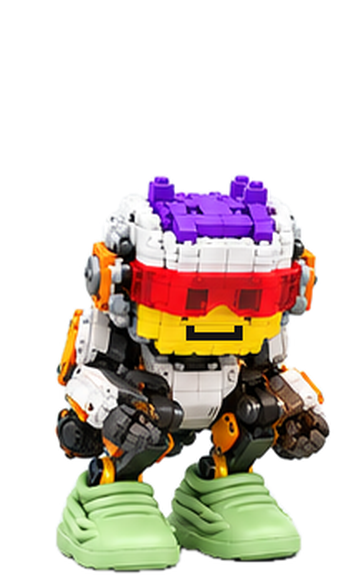
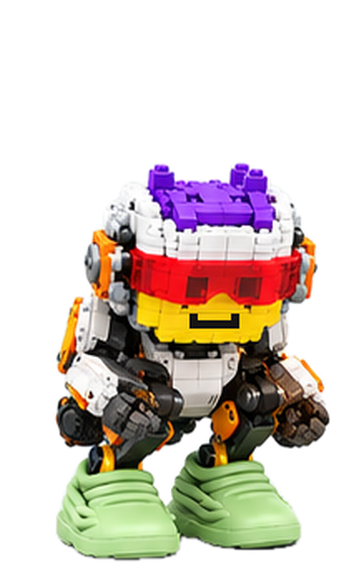
Зеркало: мост 2.7.5 (одобрено Александром) — Плюс на 8 % шире, лицо короче, улыбка уже и по центру, знак «++3» фиолетовый с контуром, музыка под розой ветров; CLAUDE.md — сборка только после «одобряю»
Claude-Session: https://claude.ai/code/session_01FAzfVjY4X3C1HBiDn6VvrF

diff --git a/quest-bridge/app/src/main/kotlin/com/questclaude/bridge/Vizor.kt b/quest-bridge/app/src/main/kotlin/com/questclaude/bridge/Vizor.kt
@@ -11,9 +11,9 @@ import java.util.Locale
  *
  * Кадр: золотые скобы по углам (всегда, пока стиль viz) и тонкая золотая линия сверху; левый верх — карточка
  * топ-донатора и цели доната (полоса визор → золото), справа от неё — табло соведущего; правый верх — налёт
- * пилюлей и Плюс (бюст, под ним плашка «PLUS co-host»); правый столбец — чат (имена фиолетом, метка площадки),
- * «сейчас играет», окно камеры в золотых скобах; низ по центру — субтитры пилюлей (кто говорит — золотом сверху);
- * левый низ — роза ветров. Центр кадра — 70 % ширины × 60 % высоты — свободен всегда.
+ * пилюлей и Плюс во весь рост (над ним слева знак «++3»); правый столбец — чат (имена фиолетом, метка площадки),
+ * окно камеры в золотых скобах; низ по центру — субтитры пилюлей (кто говорит — золотом сверху);
+ * левый низ — роза ветров, под ней «сейчас играет». Центр кадра — 70 % ширины × 60 % высоты — свободен всегда.
  */
 object Vizor {
     // ---------- палитра ----------
@@ -143,11 +143,11 @@ object Vizor {
     val LICO_X = PRAVO - 4f - (319f - PLECHI_VBOK) * K
     val LICO_Y = PV.t
     /**
-     * Плюс во весь рост (plus-telo.png 360×576: голова — картинка лица 256 с x = 52, ниже тело в тапочках): на 8 %
+     * Плюс во весь рост (plus-telo.png 360×563: голова — картинка лица 256 с x = 52, ниже тело в тапочках): на 8 %
      * шире картинки (TELO_SHIRE, Александр 24.10), почти во всю ширину правого столбца; стоит справа вверху над чатом.
      */
     const val TELO_W = 360f
-    const val TELO_H = 576f
+    const val TELO_H = 563f
     const val TELO_GOLOVA_X = 52f
     const val TELO_SHIRE = 1.08f
     /** Масштаб фигуры (рост — как в 2.7.2, Александру хватает): с айфоном стоя под ней место на сообщение чата. */
@@ -159,8 +159,8 @@ object Vizor {
     val BYUST = Pryam(STOLB_X - 4f, TELO_Y, PRAVO, TELO_Y + TELO_H * KT + 4f)
     /** Знак «++3» (2.7.4, вместо плашки «PLUS co-host»): над Плюсом слева. */
     val PLASHKA_PLYUSA = Pryam(STOLB_X, PV.t, STOLB_X + 96f, PV.t + 52f)
-    /** Цвет знака «++3» — серый, как на картинке Александра (чуть светлее — на тёмной игре). */
-    const val ZNAK = 0xFF8C929A.toInt()
+    /** Цвет знака «++3» — наш фиолетовый (гребень Плюса), с тонким чёрным контуром (Александр 24.10). */
+    const val ZNAK = FIOLET
     /** Пилюля налёта — слева от головы, в полосе верха (наибольшая ширина). */
     val NALET_PILYULYA = Pryam(PV.l, VERH, BYUST.l - ZAZOR, VERH + 48f)
 
@@ -169,17 +169,18 @@ object Vizor {
     const val CH = 600
     val CHAT_VERH = maxOf(PLASHKA_PLYUSA.b, BYUST.b) + ZAZOR
 
-    // слой "mz" — «сейчас играет»: правый столбец над окном камеры
+    // слой "mz" — «сейчас играет» (2.7.5, Александр 24.10): слева внизу под розой ветров, а не над камерой
     const val MZW = 240
     const val MZH = 52
+    val MUZ = Pryam(64f, NIZ - MZH, 64f + MZW, NIZ)
 
     // слой "nc" — субтитры: низ по центру, не выше нижней границы центра
-    const val TW = 1100
+    const val TW = 1030                 // уже прежних 1100: слева теперь и роза, и музыка под ней
     const val TH = 172
     val TITRY_VERH = NIZ - TH
 
-    // слой "ln" — роза ветров (Roza3D, 150) в левом нижнем углу, внутри скобы
-    val ROZA = Pryam(64f, 870f, 64f + Roza3D.KARTINKA, 870f + Roza3D.KARTINKA)
+    // слой "ln" — роза ветров (Roza3D, 150) в левом нижнем углу, над «сейчас играет»
+    val ROZA = Pryam(64f, MUZ.t - 8f - Roza3D.KARTINKA, 64f + Roza3D.KARTINKA, MUZ.t - 8f)
 
     // слои "vv", "vn" — скобы и линия: полосы во всю ширину сверху и снизу
     const val RAMKA_H = 96
@@ -213,9 +214,9 @@ object Vizor {
             intArrayOf(r - d, n, d, t), intArrayOf(r - t, n, t, d))            // правый низ
     }
 
-    /** Место субтитров по горизонтали: между розой и окном камеры внизу справа ([pravo] — его левый край, 1080p). */
+    /** Место субтитров по горизонтали: между розой с музыкой и окном камеры ([pravo] — его левый край, 1080p). */
     fun titryX(pravo: Float = PRAVO): Float {
-        val levo = ROZA.r + ZAZOR
+        val levo = maxOf(ROZA.r, MUZ.r) + ZAZOR
         val c = (levo + pravo - ZAZOR) / 2f
         return (c - TW / 2f).coerceIn(levo, maxOf(levo, W - TW - SKOBA_OTSTUP))
     }

diff --git a/quest-bridge/app/src/main/kotlin/com/questclaude/bridge/Nalozhenie.kt b/quest-bridge/app/src/main/kotlin/com/questclaude/bridge/Nalozhenie.kt
@@ -606,7 +606,7 @@ class Nalozhenie(
      * Мимика поверх картинки лица в [dst] (точки картинки 256: глаза за очками 92–117 и 148–169 × 129–150, рот —
      * полоса 90–166 × 181–189 со сдвигом ROT): моргание, взгляд вбок, рот в речи, улыбка.
      */
-    private fun mimikaLica(c: Canvas, dst: RectF, sost: String, now: Long) {
+    private fun mimikaLica(c: Canvas, dst: RectF, sost: String, now: Long, uzhe: Boolean = false) {
         val k = dst.width() / 256f
         fun pr(x0: Float, y0: Float, x1: Float, y1: Float, p: Paint) =
             c.drawRect(dst.left + x0 * k, dst.top + y0 * k, dst.left + x1 * k, dst.top + y1 * k, p)
@@ -618,24 +618,28 @@ class Nalozhenie(
             sost == "dumaet" -> { pr(100f, 129f, 122f, 150f, glaz); pr(156f, 129f, 175f, 150f, glaz) } // взгляд вбок
         }
         val r = ROT                                                    // рот (2.2.6) — на ряд кирпичей ниже
+        // у фигуры (2.7.5) рот на 15 % уже и по середине лица (между глаз — x 131,5), лицо ниже глаз на 15 % короче
+        fun rx(v: Float) = if (uzhe) ROT_CX + (v - 128f) * ROT_UZHE else v
+        fun ry(v: Float) = if (uzhe) GLAZA_Y + (v - GLAZA_Y) * LICO_KOROCHE else v
+        fun rot(x0: Float, y0: Float, x1: Float, y1: Float, p: Paint) = pr(rx(x0), ry(y0), rx(x1), ry(y1), p)
         val govorit = sost == "govorit"
         when {
             govorit -> {
-                pr(85f, 170f + r, 91f, 181f + r, zhelt); pr(164f, 170f + r, 171f, 181f + r, zhelt)  // уголки прочь
+                rot(85f, 170f + r, 91f, 181f + r, zhelt); rot(164f, 170f + r, 171f, 181f + r, zhelt)  // уголки прочь
                 val otkryt = if (sin(now / 90.0) > 0) 14f else 6f                         // как в студии
-                pr(90f, 181f + r, 166f, 189f + r + otkryt, chern)
+                rot(90f, 181f + r, 166f, 189f + r + otkryt, chern)
             }
             ulybka -> {
-                pr(80f, 165f + r, 87f, 182f + r, chern); pr(169f, 165f + r, 176f, 182f + r, chern)  // уголки вверх
-                pr(86f, 175f + r, 170f, 197f + r, chern)                       // губы: верхняя = нижняя (7 точек, 11.10)
-                pr(91f, 182f + r, 165f, 190f + r, zuby)
-                for (x in listOf(103f, 116f, 128f, 140f, 153f)) pr(x, 182f + r, x + 1.6f, 190f + r, chern)  // зубы
+                rot(80f, 165f + r, 87f, 182f + r, chern); rot(169f, 165f + r, 176f, 182f + r, chern)  // уголки вверх
+                rot(86f, 175f + r, 170f, 197f + r, chern)                       // губы: верхняя = нижняя (7 точек, 11.10)
+                rot(91f, 182f + r, 165f, 190f + r, zuby)
+                for (z in listOf(103f, 116f, 128f, 140f, 153f)) rot(z, 182f + r, z + 1.6f, 190f + r, chern)  // зубы
             }
         }
     }
 
     /**
-     * Плюс во весь рост (2.7.2, лист тела Александра 24.10; стиль «Визор»): фигура plus-telo.png 360×576 — голова
+     * Плюс во весь рост (2.7.2, лист тела Александра 24.10; стиль «Визор»): фигура plus-telo.png 360×563 — голова
      * в точках картинки лица 256 (с x = 52), ниже тело в тапочках; на 8 % шире при том же росте (Александр 24.10).
      * Мимика — на голове фигуры. Приседания (каждая четвёртая анимация ожидания — 10 раз) — кадры plus-prised-1…4
      * с тем же местом тапочек; в приседе мимики нет, лицо улыбается само. [l], [t] — левый верх фигуры, [kt] — масштаб.
@@ -655,7 +659,7 @@ class Nalozhenie(
         else {
             c.drawBitmap(f, null, dst, kist)
             kist.alpha = 255
-            mimikaLica(c, RectF(l + Vizor.TELO_GOLOVA_X * kt, t, l + (Vizor.TELO_GOLOVA_X + 256) * kt, t + 256 * kt), sost, now)
+            mimikaLica(c, RectF(l + Vizor.TELO_GOLOVA_X * kt, t, l + (Vizor.TELO_GOLOVA_X + 256) * kt, t + 256 * kt), sost, now, uzhe = true)
         }
         kist.alpha = 255
         var y = 0f
@@ -1179,6 +1183,12 @@ class Nalozhenie(
         const val MR = 8f
         /** Рот в plus-lico.png опущен на ряд кирпичей (9 точек из 256) — подбородок меньше; мимика — за ним. */
         const val ROT = 9f
+        /** Рот фигуры (2.7.4): середина и сужение — Александр «уже на 15 % и по центру». */
+        const val ROT_CX = 131.5f
+        const val ROT_UZHE = 0.85f
+        /** Лицо фигуры ниже глаз (середина глаз — y 139,5) на 15 % короче: рот и подбородок выше (Александр 24.10). */
+        const val GLAZA_Y = 139.5f
+        const val LICO_KOROCHE = 0.85f
         /** Приседания: 10 раз, круг 1 с — кадры (номер, мс): вниз, внизу дольше, вверх. */
         const val PRISED_RAZ = 10
         val PRISED_KADRY = listOf(0 to 120L, 1 to 120L, 2 to 120L, 3 to 280L, 2 to 120L, 1 to 120L, 0 to 120L)

diff --git a/quest-bridge/app/src/main/kotlin/com/questclaude/bridge/VizorPlashki.kt b/quest-bridge/app/src/main/kotlin/com/questclaude/bridge/VizorPlashki.kt
@@ -159,23 +159,29 @@ class VizorPlashki(
         if (zaEfir.isNotEmpty()) c.drawText(kist.vlezet(naletMalo, zaEfir, r.right - 18f - x), x, baza, naletMalo)
     }
 
-    /** Знак «++3» (2.7.4, картинка Александра): маленький «+» сверху слева, крупный «+», «3» внизу справа; серый. */
-    private fun znakK(sz: Float) = Paint(Paint.ANTI_ALIAS_FLAG).apply {
-        typeface = android.graphics.Typeface.DEFAULT_BOLD; textSize = sz; color = Vizor.ZNAK
-        setShadowLayer(3f, 0f, 1f, 0x99000000.toInt())                   // читается и на светлой игре
+    /** Знак «++3» (картинка Александра): маленький «+» сверху слева, крупный «+», «3» внизу справа; фиолетовый
+     *  (наш, Vizor.ZNAK) с тонким чёрным контуром (Александр 24.10). */
+    private fun znakK(sz: Float, kontur: Boolean) = Paint(Paint.ANTI_ALIAS_FLAG).apply {
+        typeface = android.graphics.Typeface.DEFAULT_BOLD; textSize = sz
+        if (kontur) { style = Paint.Style.STROKE; strokeWidth = 2.5f; strokeJoin = Paint.Join.ROUND; color = Color.BLACK }
+        else color = Vizor.ZNAK
     }
-    private val znakMal = znakK(24f)
-    private val znakBol = znakK(50f)
-    private val znakTri = znakK(30f)
+    private val znakMal = znakK(24f, false)
+    private val znakBol = znakK(50f, false)
+    private val znakTri = znakK(30f, false)
+    private val konturMal = znakK(24f, true)
+    private val konturBol = znakK(50f, true)
+    private val konturTri = znakK(30f, true)
 
     /** Знак «++3» над Плюсом слева — вместо прежней плашки «PLUS co-host»; (dx, dy) — начало слоя в кадре. */
     fun plashkaPlyusa(c: Canvas, dx: Float, dy: Float) {
         val m = Vizor.PLASHKA_PLYUSA
         val l = m.l - dx; val t = m.t - dy
-        c.drawText("+", l, t + 17f, znakMal)
         val xb = l + znakMal.measureText("+") * 0.75f
-        c.drawText("+", xb, t + 41f, znakBol)
-        c.drawText("3", xb + znakBol.measureText("+") - 1f, t + 46f, znakTri)
+        val x3 = xb + znakBol.measureText("+") - 1f
+        c.drawText("+", l, t + 17f, konturMal); c.drawText("+", l, t + 17f, znakMal)          // контур, поверх — цвет
+        c.drawText("+", xb, t + 41f, konturBol); c.drawText("+", xb, t + 41f, znakBol)
+        c.drawText("3", x3, t + 46f, konturTri); c.drawText("3", x3, t + 46f, znakTri)
     }
 
     // ---------- правый столбец: чат ----------

diff --git a/quest-bridge/proba-maket/src/maket/kotlin/KadrVizor.kt b/quest-bridge/proba-maket/src/maket/kotlin/KadrVizor.kt
@@ -13,7 +13,7 @@ import java.io.File
 class VizVaryant(val imya: String, val vid: Okno.Vid, val muzyka: Boolean = true, val sotnya: Boolean = false,
                  val niz: List<Triple<String, String, String>> = emptyList(), val lico: String = "plus",
                  val sost: String = "obychno", val morgaet: Boolean = false, val t: Long = 0L,
-                 val prisedT: Long = -1L)
+                 val prisedT: Long = -1L, val ulybka: Boolean = false)
 
 fun kadryVizor(out: File) {
     val ya = Okno.Vid("ugol", "pn", 0.25f, 90, true, 4f)                // айфон стоя, снизу вплотную (как у Александра)
@@ -33,6 +33,7 @@ fun kadryVizor(out: File) {
         // 2.7.2: Плюс во весь рост — речь, моргает, приседания (кадры 2 и нижняя точка)
         VizVaryant("plus-govorit", ya, sost = "govorit", t = 90L * 5),
         VizVaryant("plus-morgaet", ya, morgaet = true),
+        VizVaryant("plus-ulybka", ya, ulybka = true),
         VizVaryant("plus-prised-2", ya, prisedT = 130L),
         VizVaryant("plus-prised-niz", ya, prisedT = 400L),
     )
@@ -87,8 +88,7 @@ private fun kadrViz(v: VizVaryant, dir: File): ABitmap {
     val kamTop = H - r[1] - r[3]
     val kameraVerhGl = r[1] + r[3] + maxOf(2, H / 360)
     val zazor = Vizor.ZAZOR.toInt()
-    val mzVerh = H - kameraVerhGl - zazor - Vizor.MZH
-    val chatNiz = H - kameraVerhGl - zazor - (if (v.muzyka) Vizor.MZH + zazor else 0)
+    val chatNiz = H - kameraVerhGl - zazor                                                      // музыка — слева под розой
     val chatVerh = Vizor.CHAT_VERH.toInt()
     s.rz.chatMesto = (chatNiz - chatVerh).coerceIn(0, Vizor.CH)
 
@@ -98,6 +98,7 @@ private fun kadrViz(v: VizVaryant, dir: File): ABitmap {
     viz.ramka(vv, vn)
     Oformlenie.licoUpr(v.lico)
     if (v.morgaet) pole(n, "morgaet", true)
+    if (v.ulybka) pole(n, "ulybka", true)
     val tt = if (v.t != 0L) v.t else now
     if (v.prisedT >= 0) pole(n, "prisedS", tt - v.prisedT)
     zvat(n, "risovatViz", Nalozhenie.Pokaz(), v.sost, tt)
@@ -141,7 +142,7 @@ private fun kadrViz(v: VizVaryant, dir: File): ABitmap {
         kc.drawBitmap(chatB, Vizor.STOLB_X, (chatNiz - Vizor.CH).toFloat(), null)
         kc.restore()
     }
-    if (v.muzyka) kc.drawBitmap(mzB, Vizor.STOLB_X, mzVerh.toFloat(), null)                   // mz
+    if (v.muzyka) kc.drawBitmap(mzB, Vizor.MUZ.l, Vizor.MUZ.t, null)                   // mz
     return kadr
 }
 

diff --git a/quest-bridge/app/src/main/kotlin/com/questclaude/bridge/Razvilka.kt b/quest-bridge/app/src/main/kotlin/com/questclaude/bridge/Razvilka.kt
@@ -563,7 +563,7 @@ class Razvilka(private val w: Int, private val h: Int) {
 
     /**
      * Место слоя в стиле «Визор» (Vizor, точки 1080p от верха → GL от низа): в x0Viz, y0Viz. false — не рисовать
-     * (чату нет места). Чат — правый столбец между плашкой Плюса и «сейчас играет»/окном камеры.
+     * (чату нет места). Чат — правый столбец между Плюсом и окном камеры; «сейчас играет» — слева под розой.
      */
     private fun mestoViz(o: Out, ugol: String, sl: Sloy, w: Int, h: Int): Boolean {
         val s = o.h / 1080f
@@ -579,15 +579,11 @@ class Razvilka(private val w: Int, private val h: Int) {
             "nc" -> { x = (titryLevo(o) * s).toInt(); y = gl(Vizor.TITRY_VERH) }
             "lg", "lb" -> { x = 0; y = o.h - ((Raskladka.SLOY_Y + sl.h) * s).toInt() }
             "vse" -> { x = 0; y = 0 }
-            "mz" -> {                        // над окном камеры справа внизу; без камеры — в самом низу столбца
-                val zazor = (Vizor.ZAZOR * s).toInt()
-                y = kameraVerh(o)?.let { it + zazor } ?: (o.h - (Vizor.NIZ * s).toInt())
-            }
+            "mz" -> { x = (Vizor.MUZ.l * s).toInt(); y = gl(Vizor.MUZ.t) }   // слева внизу под розой (2.7.5)
             "pc" -> {
                 val zazor = (Vizor.ZAZOR * s).toInt()
                 val verh = o.h - (Vizor.CHAT_VERH * s).toInt()
-                val mz = sloi["mz"]?.takeIf { it.w > 0 }?.let { (it.h * s).toInt() + zazor } ?: 0
-                val niz = (kameraVerh(o)?.let { it + zazor } ?: (o.h - (Vizor.NIZ * s).toInt())) + mz
+                val niz = kameraVerh(o)?.let { it + zazor } ?: (o.h - (Vizor.NIZ * s).toInt())   // музыка — не в столбце
                 chatMesto = ((verh - niz) / s).toInt().coerceIn(0, Vizor.CH)
                 if (verh - niz < (60 * s).toInt()) return false
                 y = niz

diff --git a/quest-bridge/app/src/test/kotlin/com/questclaude/bridge/VizorTest.kt b/quest-bridge/app/src/test/kotlin/com/questclaude/bridge/VizorTest.kt
@@ -23,8 +23,8 @@ class VizorTest {
             "налёт" to Vizor.NALET_PILYULYA,
             "бюст Плюса" to Vizor.BYUST,
             "плашка Плюса" to Vizor.PLASHKA_PLYUSA,
-            "чат" to Vizor.Pryam(Vizor.STOLB_X, Vizor.CHAT_VERH, Vizor.PRAVO, Vizor.NIZ - Vizor.MZH - Vizor.ZAZOR),
-            "сейчас играет" to Vizor.Pryam(Vizor.STOLB_X, Vizor.NIZ - Vizor.MZH, Vizor.PRAVO, Vizor.NIZ),
+            "чат" to Vizor.Pryam(Vizor.STOLB_X, Vizor.CHAT_VERH, Vizor.PRAVO, Vizor.NIZ),
+            "сейчас играет" to Vizor.MUZ,
             "роза" to Vizor.ROZA,
         )
         // субтитры — при любом месте окна камеры справа (и без него)
@@ -68,7 +68,12 @@ class VizorTest {
         assertTrue(Vizor.NALET_PILYULYA.r <= Vizor.BYUST.l)
         assertTrue(Vizor.CHAT_VERH >= Vizor.PLASHKA_PLYUSA.b)
         // субтитры не наезжают на розу
-        for ((imya, r) in karty().filterKeys { it.startsWith("субтитры") }) assertFalse(imya, r.peresekaet(Vizor.ROZA))
+        for ((imya, r) in karty().filterKeys { it.startsWith("субтитры") }) {
+            assertFalse(imya, r.peresekaet(Vizor.ROZA)); assertFalse(imya, r.peresekaet(Vizor.MUZ))
+        }
+        // музыка — под розой (2.7.5); субтитры при айфоне лёжа (окно с 1363) не заходят на камеру
+        assertTrue(Vizor.MUZ.t >= Vizor.ROZA.b)
+        assertTrue(Vizor.titryX(1363f) + Vizor.TW <= 1363f)
         // левый верх не доходит до налёта
         assertTrue(Vizor.LV.r <= Vizor.NALET_PILYULYA.l)
     }

diff --git a/CLAUDE.md b/CLAUDE.md
@@ -1,0 +1,8 @@
+# Правила работы с Александром (долгосрочно)
+
+- **Сборку приложения не запускать без «одобряю» Александра.** Сборка APK запускается сама, когда код
+  quest-bridge попадает в открытый 3dplus (зеркало, prilozhenie.yml). Поэтому зеркало quest-bridge в 3dplus
+  и любой другой запуск сборки — только после его явного «одобряю» (или «начинай сборку»). До этого — правки,
+  стенд proba-maket, тесты proba-stol и коммит в закрытый quest-claude, без зеркала.
+- Финальный результат (модель, оформление) — тоже только после «одобряю»; пробы — под флагами.
+- Говорить просто, кратко, по-русски, на «ты»; шаги — нумерованным списком.
